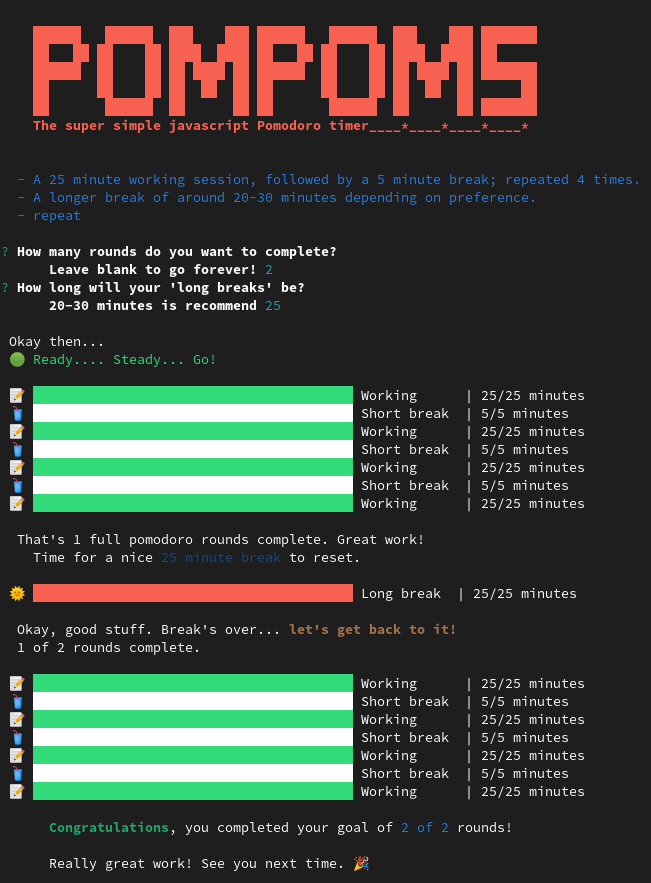
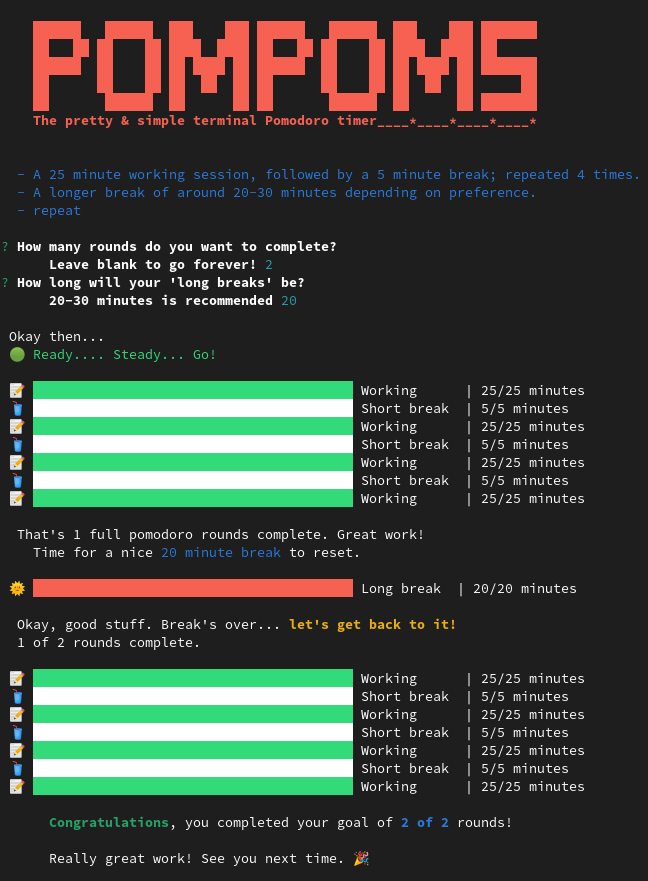
small bug fixes and visual updates

diff --git a/src/utils/userInput.ts b/src/utils/userInput.ts
@@ -22,7 +22,7 @@ export const getUserInput = async (defaultLongBreakLength: number) => {
       name: "longBreak",
       type: "input",
       message: `How long will your 'long breaks' be?
-      20-30 minutes is recommend`,
+      20-30 minutes is recommended`,
       default() {
         return defaultLongBreakLength;
       },
@@ -41,7 +41,7 @@ export const getUserInput = async (defaultLongBreakLength: number) => {
   }
 
   return {
-    roundsToComplete: +answers.intendedRounds,
-    longBreakInMins: +answers.longBreak,
+    roundsToComplete: Math.round(+answers.intendedRounds),
+    longBreakInMins: Math.round(+answers.longBreak),
   };
 };

diff --git a/src/pomodoro/loop.ts b/src/pomodoro/loop.ts
@@ -23,12 +23,14 @@ export const pomodoroLoop = async (
   if (iterations !== roundsToComplete) {
     console.log(`
   That's ${iterations} full pomodoro rounds complete. Great work!
-    Time for a nice ${chalk.blue(`${longBreakInMins} minute break`)} to reset.
+    Time for a nice ${chalk.blueBright(
+      `${longBreakInMins} minute break`
+    )} to reset.
   `);
     await pomodoroLongBreak(longBreakInMins);
 
     console.log(`
-  Okay, good stuff. Break's over... ${chalk.yellow.bold(
+  Okay, good stuff. Break's over... ${chalk.yellowBright.bold(
     "let's get back to it!"
   )}
   ${

diff --git a/src/utils/messages.ts b/src/utils/messages.ts
@@ -62,7 +62,7 @@ export const endMessage = (
       console.log(`
       ${chalk.green.bold(
         "Congratulations"
-      )}, you completed your goal of ${chalk.blueBright(
+      )}, you completed your goal of ${chalk.blueBright.bold(
         `${roundsCompleted} of ${roundsToComplete}`
       )} rounds!
 

diff --git a/README.md b/README.md
@@ -4,6 +4,8 @@ npx pompoms
 
 ![Showing example usage](https://github.com/jacksbrand/pompoms/blob/main/img/example.png?raw=true)
 
+### The pretty & simple terminal based Pomodoro timer.
+
 ## Future features
 
 - Operating system notification integration
